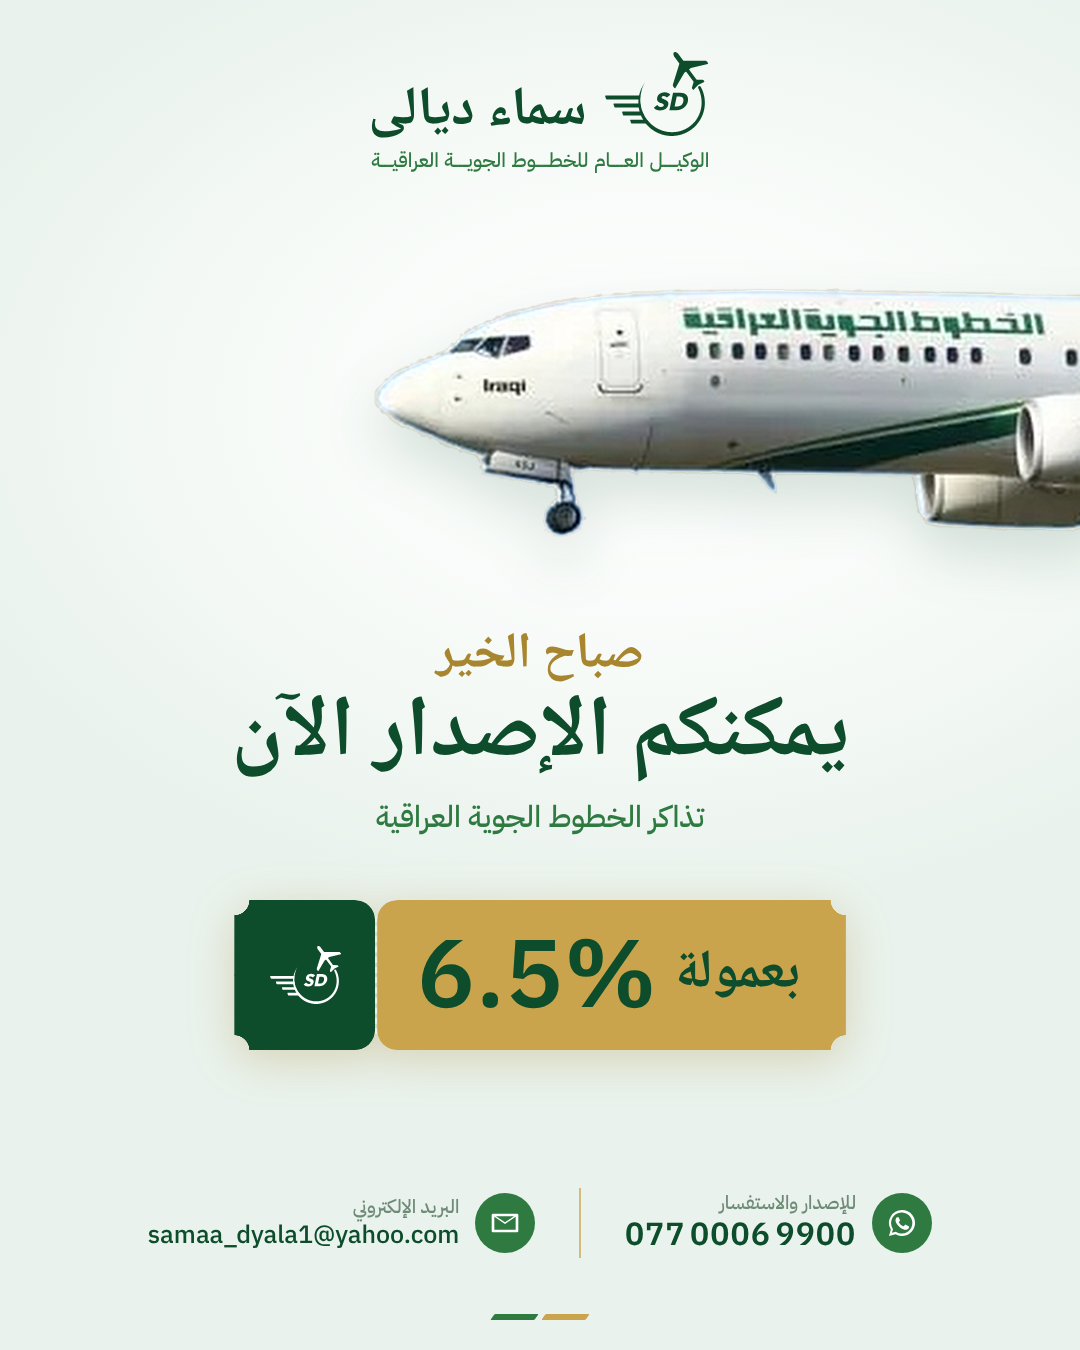
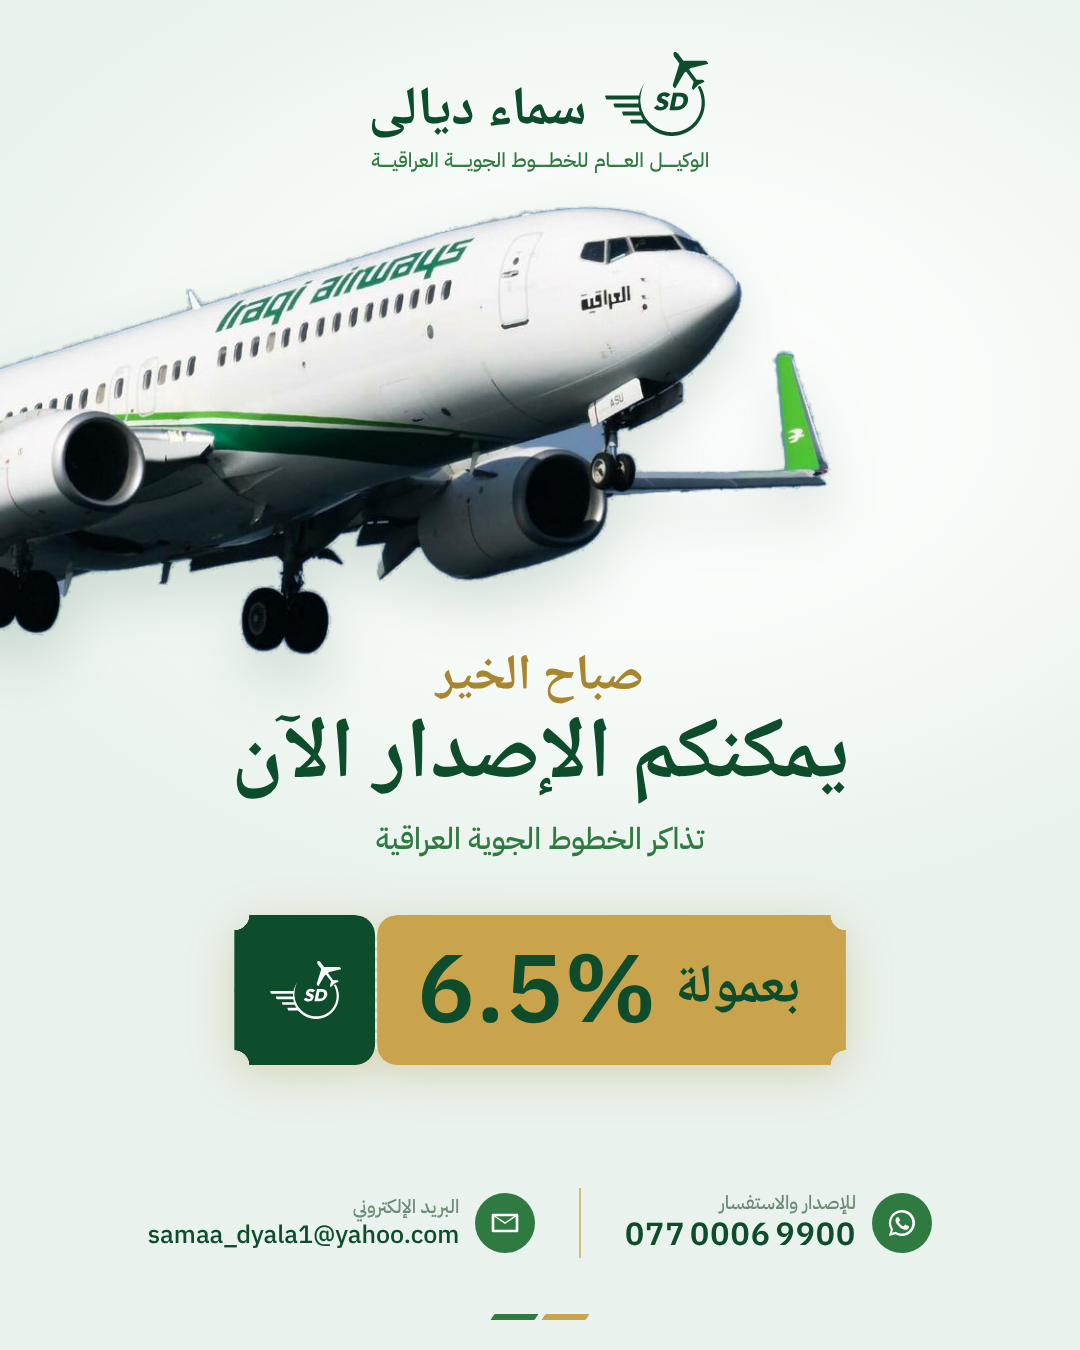
Nose-only commission post: replace the low-res YI-ASJ with YI-ASU
Claude-Session: https://claude.ai/code/session_01EprWPUJDuKvYHn821imCPv

Changed region(s): [[0.0, 0.1556, 1.0, 0.8089]]

diff --git a/09-التصاميم/عمولة الإصدار - المقدمة/إعلان.html b/09-التصاميم/عمولة الإصدار - المقدمة/إعلان.html
@@ -24,14 +24,14 @@ html,body{width:1080px;height:1350px;overflow:hidden;background:#fff}
        white-space:nowrap;text-align:center;opacity:.92;word-spacing:var(--tag-ws);transform:translateX(var(--tag-dx))}
 .head{position:absolute;top:52px;left:0;right:0;display:flex;flex-direction:column;align-items:center}
 .tag{opacity:1;color:var(--mid)}
-.txt{position:absolute;top:628px;left:0;right:0;display:flex;flex-direction:column;align-items:center;text-align:center}
+.txt{position:absolute;top:650px;left:0;right:0;display:flex;flex-direction:column;align-items:center;text-align:center}
 .greet{font-family:Naskh;font-weight:700;font-size:50px;line-height:1.15;color:var(--dgold)}
 .ttl{margin-top:2px;font-family:Naskh;font-weight:700;font-size:86px;line-height:1.15}
 .sub{margin-top:8px;font-family:Plex;font-weight:500;font-size:30px;color:var(--mid)}
 svg.deco{position:absolute;inset:0}
-.plane{position:absolute;left:372px;top:14px;width:1817px;filter:drop-shadow(0 26px 28px rgba(14,77,44,.16))}
+.plane{position:absolute;left:-872px;top:112px;width:1705px;filter:drop-shadow(0 26px 28px rgba(14,77,44,.16))}
 /* commission as a boarding-pass stub */
-.tk{position:absolute;left:50%;top:900px;transform:translateX(-50%);display:flex;height:150px;direction:rtl;filter:drop-shadow(0 10px 22px rgba(168,134,47,.28))}
+.tk{position:absolute;left:50%;top:915px;transform:translateX(-50%);display:flex;height:150px;direction:rtl;filter:drop-shadow(0 10px 22px rgba(168,134,47,.28))}
 .tk .a{background:var(--gold);color:var(--green);border-radius:20px 0 0 20px;display:flex;align-items:center;gap:18px;padding:0 46px 0 40px;
   -webkit-mask:radial-gradient(circle at 100% 0,transparent 15px,#000 15.5px) top/100% 51% no-repeat,radial-gradient(circle at 100% 100%,transparent 15px,#000 15.5px) bottom/100% 51% no-repeat}
 .tk .b{background:var(--green);color:#fff;border-radius:0 20px 20px 0;display:flex;flex-direction:column;justify-content:center;align-items:center;padding:0 34px;
@@ -54,7 +54,7 @@ svg.deco{position:absolute;inset:0}
 .stripes i{display:block;width:44px;height:6px;transform:skewX(-35deg);border-radius:1px}
 .stripes i:nth-child(1){background:var(--gold)} .stripes i:nth-child(2){background:var(--mid)}
 </style></head><body><div class="ad">
-  <img class="plane" src="../../08-الصور/طائرة العراقية YI-ASJ (مفرغة).png" alt="">
+  <img class="plane" src="../../08-الصور/طائرة العراقية YI-ASU (مفرغة، مكبّرة 2x).png" alt="">
   <div class="head">
     <div class="brand" id="brand">
       <div class="lockup" id="lockup">

diff --git a/CLAUDE.md b/CLAUDE.md
@@ -101,7 +101,7 @@
 - المقاطع مأخوذة من تيك توك وإنستغرام، فلا تُستخدم في إعلان ممول دون إذن أصحابها، وتُزال أصواتها في المونتاج.
 
 ## منشورات المكاتب (B2B)
-- الشركة تبيع التذاكر لمكاتب السفر الأخرى، والموظفون يرسلون لها منشورات "يمكنكم الإصدار الآن". النموذج المعتمد بهويتنا: `09-التصاميم/عمولة الإصدار للمكاتب/` (من قالب الثقة): "صباح الخير" بالذهبي، "يمكنكم الإصدار الآن"، "تذاكر الخطوط الجوية العراقية"، "بعمولة 6.5%"، وصورة طائرة العراقية، وبطاقة فيها رقم الإصدار والبريد. لا تُكتب "إلى مكاتب السفر والسياحة" في النسختين. تتغير نسبة العمولة من القالب مباشرة. ونسخة ثانية بأسلوب "النافذة" (طائرة العراقية YI-ASU تخرج من نافذة طائرة فيها سماء بغيوم، ثم "صباح الخير" بالذهبي، والنص في صناديق، بلا "إلى مكاتب السفر والسياحة"، ومسافة واضحة بين سطر الوكيل والنافذة): `09-التصاميم/عمولة الإصدار - النافذة/`. صورة الطائرة المفرغة `08-الصور/طائرة العراقية YI-ASU (مفرغة).png` (من صورة بسماء زرقاء أرسلها إحسان) تصلح لتصاميم أخرى، وصورة الغيوم `08-الصور/سماء بغيوم (عمودية).jpg`. الغيوم خارج النافذة رسوم ضبابية بيضاء لا صور مقصوصة. ونسخة ثالثة "فاتح" بأخضر أقل: `09-التصاميم/عمولة الإصدار - فاتح/`، خلفية بيضاء، والترويسة والعناوين بالأخضر، والطائرة المفرغة كبيرة أمام دائرة فاتحة بخط ذهبي ومسار منقّط، والعمولة في بطاقة صعود ذهبية كعبها أخضر فيه الرمز الأبيض. ونسخة رابعة "الحركة": `09-التصاميم/عمولة الإصدار - الحركة/`، مقدمة طائرة YI-ASU فقط تدخل من اليسار والباقي خارج التصميم، بضبابية حركة تزداد نحو الذيل وخطوط سرعة ذهبية وخضراء بزاوية الطائرة (13.4°)، والنص والبطاقة تحتها كما في النسخة الفاتحة. ونسخة خامسة "المقدمة": `09-التصاميم/عمولة الإصدار - المقدمة/`، مقدمة طائرة YI-ASJ الجانبية تدخل من اليمين بلا تأثير حركة (`08-الصور/طائرة العراقية YI-ASJ (مفرغة).png`، مكبّرة 3 مرات من صورة 768 بكسل فدقتها محدودة). وأربعة نماذج أخرى يولّدها `09-التصاميم/عمولة الإصدار - خمسة نماذج/build.py` (نسبة العمولة في متغير COMMISSION أعلاه): المكتب (صورة المكتب الحقيقية بجدار العراقية)، والرقم الكبير، ولوحة المغادرة (أرقام قلّابة)، والشروق (شمس ذهبية خلف الطائرة). نموذج "بطاقة الصعود من SD إلى مكتبكم" حذفه إحسان، فلا يُعاد. عند التصدير بحلقة bash يُحذف الشرطة المائلة الأخيرة من المسار، لأن "//" تكسر المسارات النسبية في Chromium.
+- الشركة تبيع التذاكر لمكاتب السفر الأخرى، والموظفون يرسلون لها منشورات "يمكنكم الإصدار الآن". النموذج المعتمد بهويتنا: `09-التصاميم/عمولة الإصدار للمكاتب/` (من قالب الثقة): "صباح الخير" بالذهبي، "يمكنكم الإصدار الآن"، "تذاكر الخطوط الجوية العراقية"، "بعمولة 6.5%"، وصورة طائرة العراقية، وبطاقة فيها رقم الإصدار والبريد. لا تُكتب "إلى مكاتب السفر والسياحة" في النسختين. تتغير نسبة العمولة من القالب مباشرة. ونسخة ثانية بأسلوب "النافذة" (طائرة العراقية YI-ASU تخرج من نافذة طائرة فيها سماء بغيوم، ثم "صباح الخير" بالذهبي، والنص في صناديق، بلا "إلى مكاتب السفر والسياحة"، ومسافة واضحة بين سطر الوكيل والنافذة): `09-التصاميم/عمولة الإصدار - النافذة/`. صورة الطائرة المفرغة `08-الصور/طائرة العراقية YI-ASU (مفرغة).png` (من صورة بسماء زرقاء أرسلها إحسان) تصلح لتصاميم أخرى، وصورة الغيوم `08-الصور/سماء بغيوم (عمودية).jpg`. الغيوم خارج النافذة رسوم ضبابية بيضاء لا صور مقصوصة. ونسخة ثالثة "فاتح" بأخضر أقل: `09-التصاميم/عمولة الإصدار - فاتح/`، خلفية بيضاء، والترويسة والعناوين بالأخضر، والطائرة المفرغة كبيرة أمام دائرة فاتحة بخط ذهبي ومسار منقّط، والعمولة في بطاقة صعود ذهبية كعبها أخضر فيه الرمز الأبيض. ونسخة رابعة "الحركة": `09-التصاميم/عمولة الإصدار - الحركة/`، مقدمة طائرة YI-ASU فقط تدخل من اليسار والباقي خارج التصميم، بضبابية حركة تزداد نحو الذيل وخطوط سرعة ذهبية وخضراء بزاوية الطائرة (13.4°)، والنص والبطاقة تحتها كما في النسخة الفاتحة. ونسخة خامسة "المقدمة": `09-التصاميم/عمولة الإصدار - المقدمة/`، مقدمة طائرة YI-ASU تدخل من اليسار بلا تأثير حركة (`08-الصور/طائرة العراقية YI-ASU (مفرغة، مكبّرة 2x).png`). جُرّبت فيه YI-ASJ أولاً ورفضها إحسان لضعف جودتها (صورة 768 بكسل)، فلا تُستخدم. وأربعة نماذج أخرى يولّدها `09-التصاميم/عمولة الإصدار - خمسة نماذج/build.py` (نسبة العمولة في متغير COMMISSION أعلاه): المكتب (صورة المكتب الحقيقية بجدار العراقية)، والرقم الكبير، ولوحة المغادرة (أرقام قلّابة)، والشروق (شمس ذهبية خلف الطائرة). نموذج "بطاقة الصعود من SD إلى مكتبكم" حذفه إحسان، فلا يُعاد. عند التصدير بحلقة bash يُحذف الشرطة المائلة الأخيرة من المسار، لأن "//" تكسر المسارات النسبية في Chromium.
 
 ## قواعد ثابتة لكل التصاميم
 - السعر كاملاً بصيغة "725,000 د.ع".
